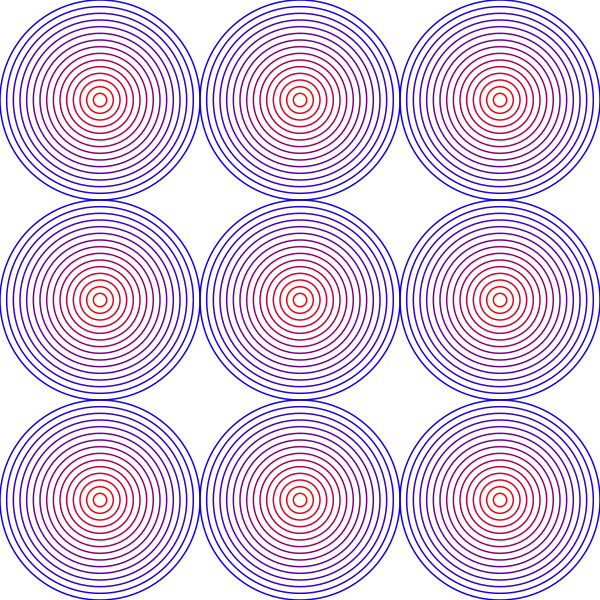
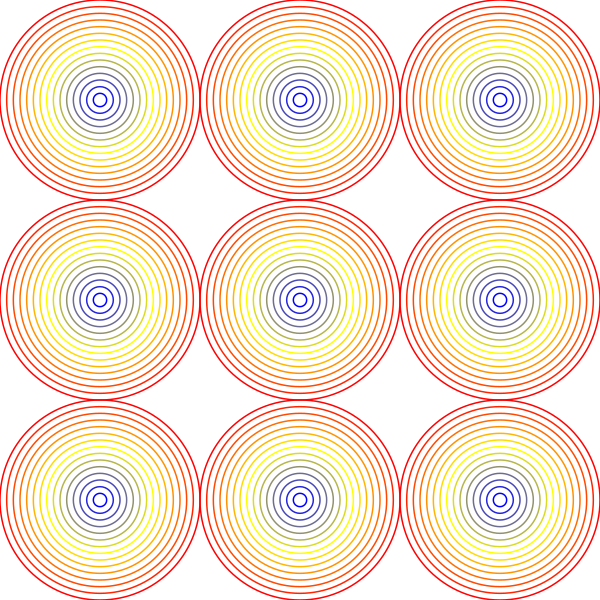
up

Changed region(s): [[0.0, 0.0, 1.0, 1.0]]

diff --git a/data/custom/circles.py b/data/custom/circles.py
@@ -15,10 +15,17 @@ def draw_concentric_circles(x, y, max_radius, num_rings):
         radius = max_radius * (i + 1) / num_rings
         context.arc(x, y, radius, 0, 2 * math.pi)
 
-        # gradient: pink -> blue
-        color = (1 - i / num_rings, 0, i / num_rings)
+        # blue -> yellow -> red
+        color_ratio = i / (num_rings - 1)
+        if color_ratio < 0.5:
+            # blue -> yellow
+            rgb_color = (color_ratio * 2, color_ratio * 2, 1 - color_ratio * 2)
+        else:
+            # yellow -> red
+            rgb_color = (1, 2 - color_ratio * 2, 0)
 
-        context.set_source_rgb(*color)
+
+        context.set_source_rgb(*rgb_color)
         context.set_line_width(1.5)
         context.stroke()
 
